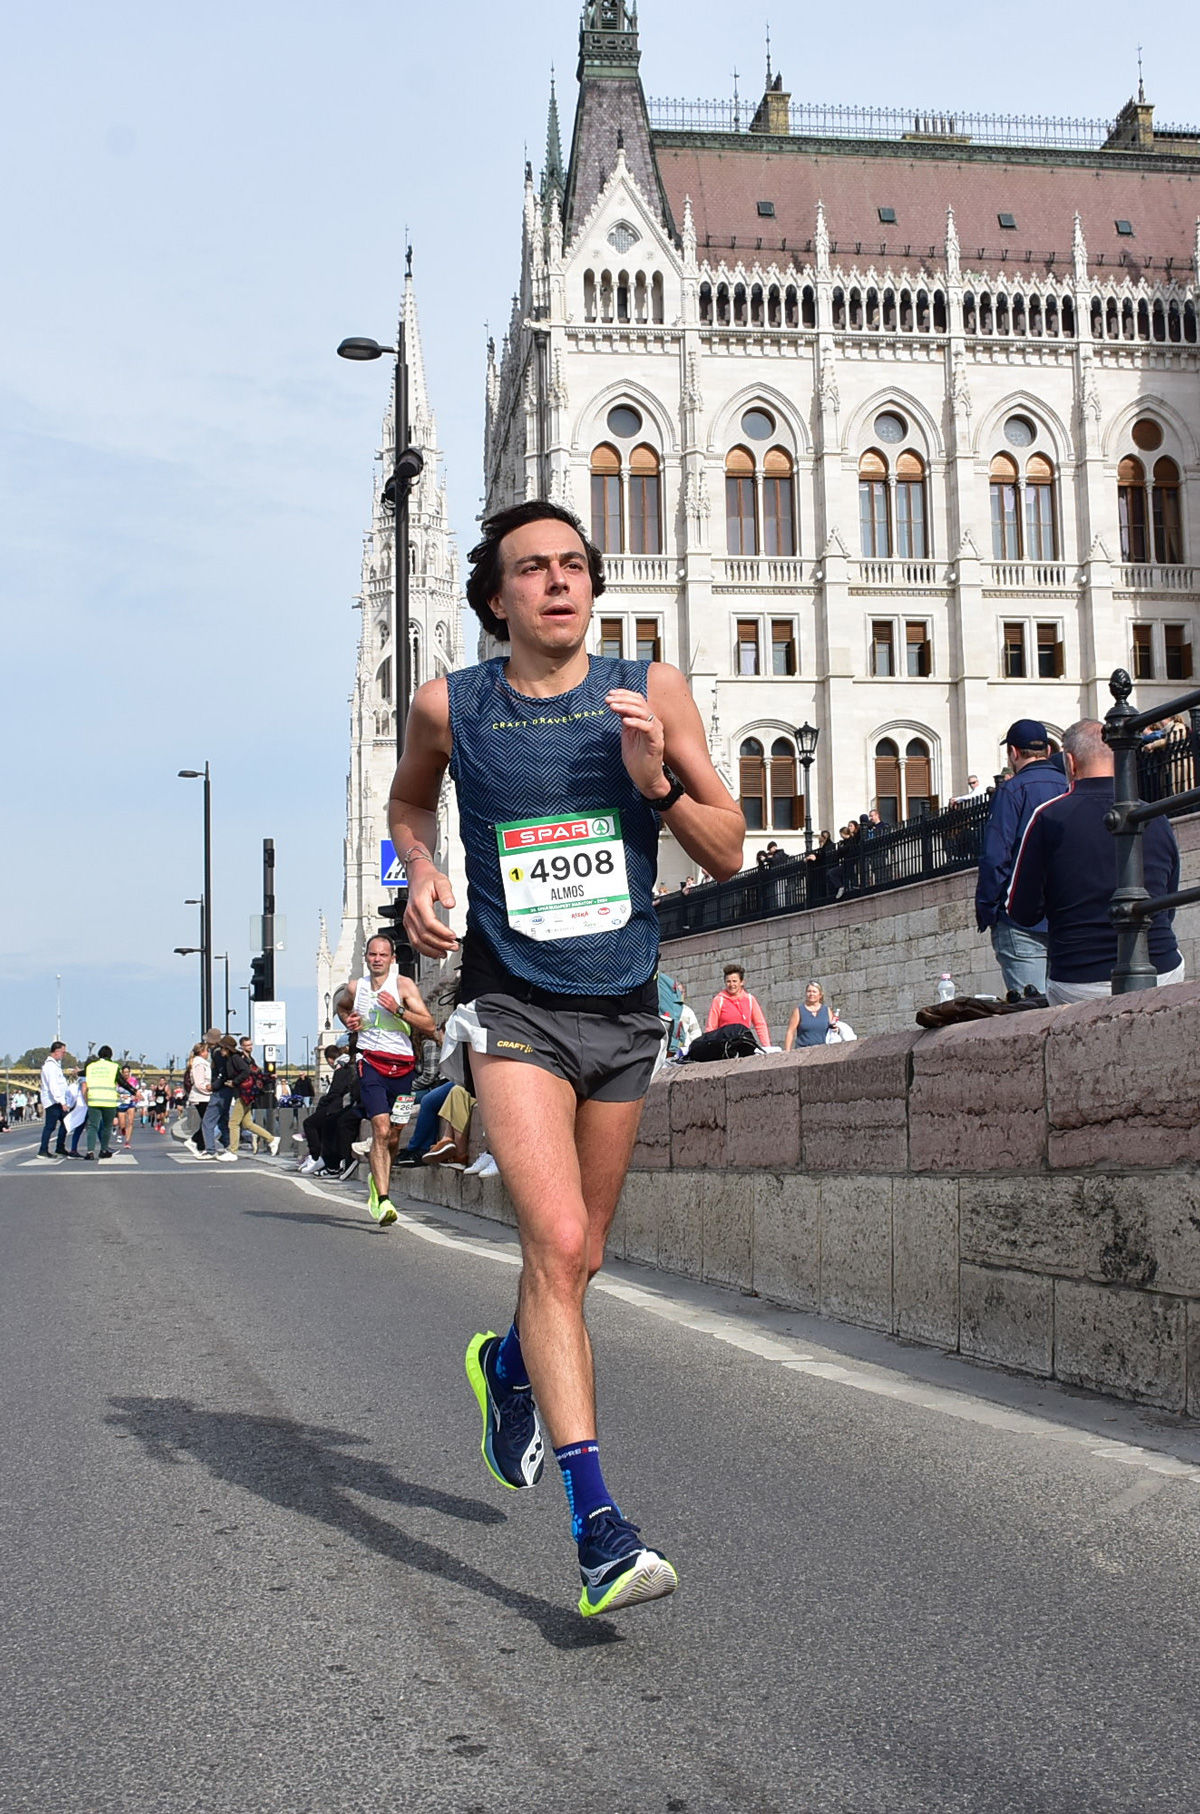
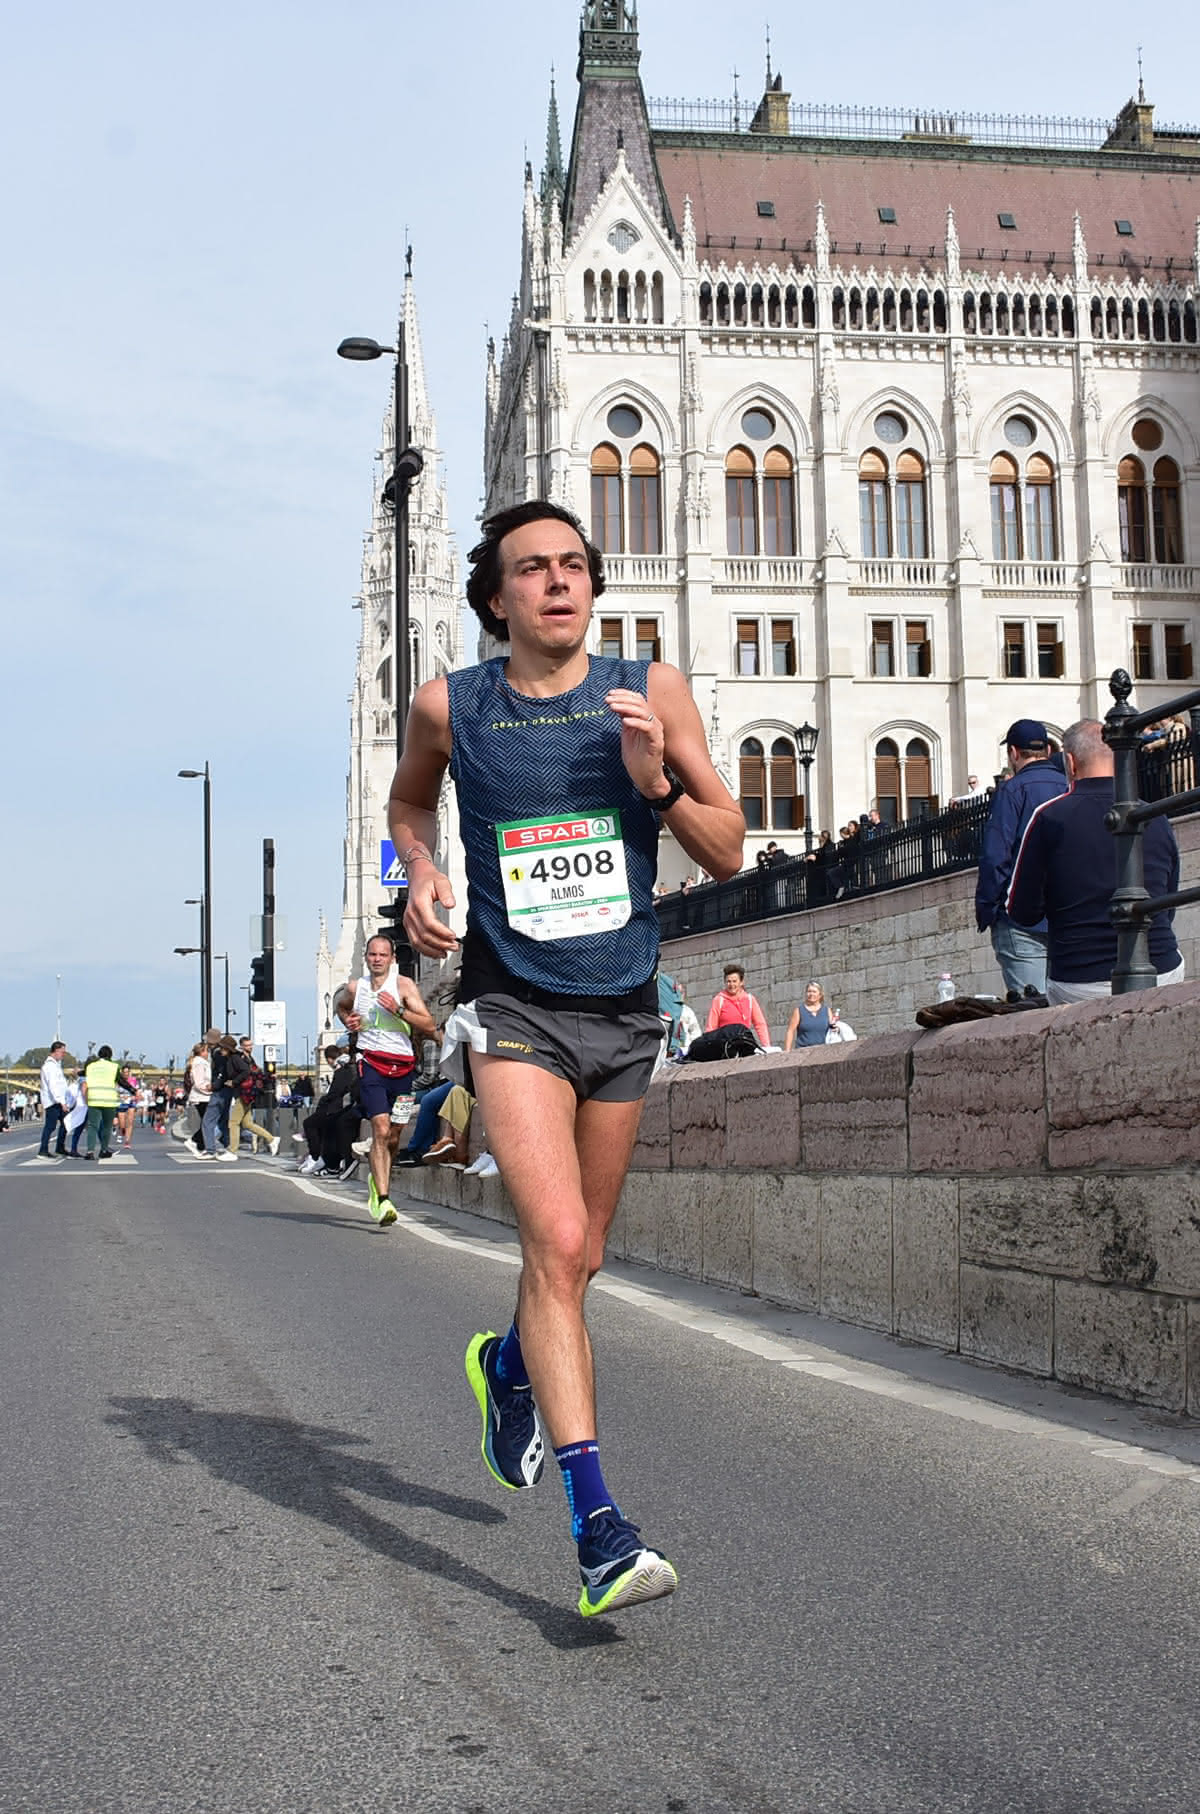
Optimize images: Reduce photo sizes by 60-90% for faster page load
- Compress all photos using ImageMagick with quality 85
- Reduce dimensions to max 1200x1200px while maintaining aspect ratio
- Total size reduction: ~8.2MB → ~2.5MB (69% smaller)
- Replace scim-tallin-2024.jpeg with .jpg version
- Store original high-res images in photos/large_images/ for backup
- Update styles.css reference for Tallinn photo extension

🤖 Generated with [Claude Code](https://claude.com/claude-code)

Changed region(s): [[0.4317, 0.3705, 0.5242, 0.4013], [0.4317, 0.4322, 0.4933, 0.4631], [0.0925, 0.5865, 0.1233, 0.6174]]

diff --git a/index.html b/index.html
@@ -165,11 +165,13 @@
                     <div id="intro" class="bento-item span-2 section-intro border-radius-none">
                         <div class="section-intro-wrapper">
                             <p class="section-intro-text">
-                                <span class="intro-heading intro-heading-hero">Where Culture, Education, and Gastronomy
+                                <span class="intro-heading intro-heading-hero">Where <em
+                                        class="intro-accent gradient-1a"></em>Culture</em>, <em
+                                        class="intro-accent gradient-1b">Education</em>, and <em
+                                        class="intro-accent gradient-1a">Gastronomy</em>
                                     Converge 🍽</span>
                                 <span class="intro-heading intro-heading-secondary">I discovered my calling by following
-                                    <em class="intro-accent gradient-1a">passion</em> over <em
-                                        class="intro-accent gradient-1b">convention</em>.</span>
+                                    passion over convention.</span>
                                 <span class="intro-subheading-large">
                                     I started in <strong class="accent-strong">arts management</strong>, spent years
                                     managing musicians and cultural events. Then in 2019, I realized gastronomy wasn't
@@ -232,8 +234,7 @@
                     <!-- Section Header -->
                     <!-- ALMA Portrait Photo -->
                     <div class="bento-item row-span-2 cursor-chef">
-                        <div class="image-card image-full-height bg-alma-portrait"></div>
-                        <div class="caption">Leading educational partnerships at ALMA</div>
+                        <div class="image-card image-full-height bg-almos-intro"></div>
                     </div>
 
                     <!-- ALMA - Current Role -->

diff --git a/styles.css b/styles.css
@@ -1648,8 +1648,12 @@ h1 {
 }
 
 .bg-tallinn-mission {
-    background-image: url('photos/scim-tallin-2024.jpeg');
+    background-image: url('photos/scim-tallin-2024.jpg');
     /* Italian Cuisine Week in the World - Tallinn 2024 institutional mission */
+}
+
+.bg-almos-intro {
+    background-image: url('photos/almos-intro.jpg');
 }
 
 .bg-zsiraf {
